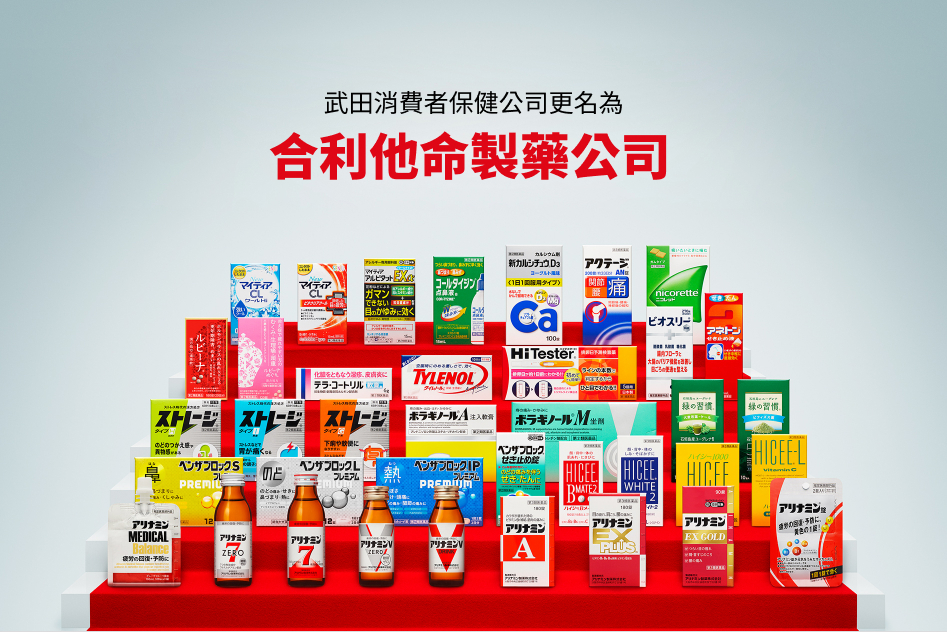
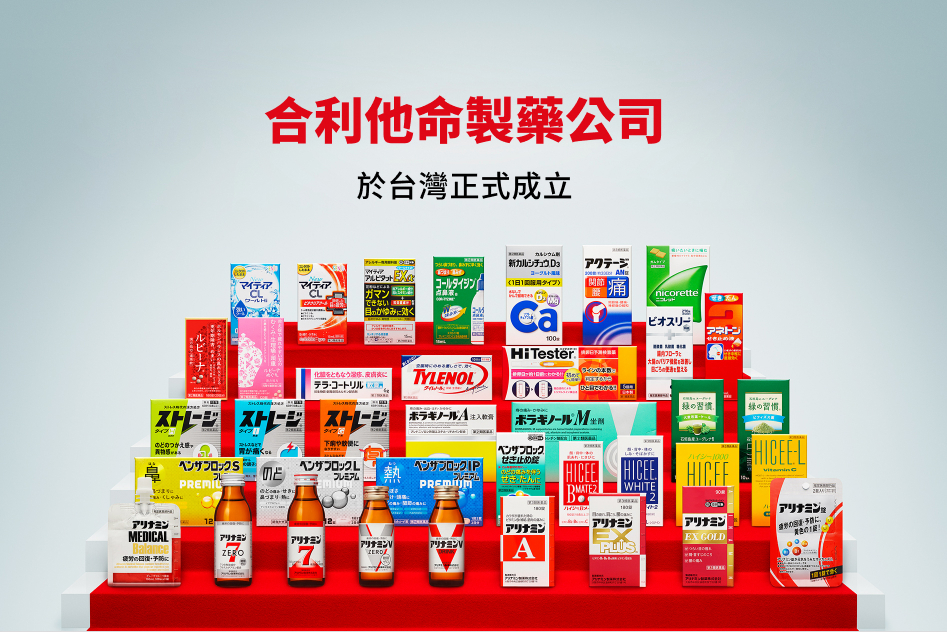
公司簡介文案修改 #2022-03-18

Changed region(s): [[0.2756, 0.1201, 0.7043, 0.3302]]

diff --git a/history.html b/history.html
@@ -171,9 +171,8 @@
             <div data-aos="fade-up" data-aos-duration="1000" data-aos-once="true" data-aos-delay="150">
                 <h1>邁向<span>全新的開始</span></h1>
                 <img src="images/history/pic_main.jpg" alt="合利他命藥品股份有限公司">
-                <p>2021年4月1日起，武田消費者保健公司更名為「合利他命製藥公司」。 </p>
-                <p>我們將這次的更名視為一種面對未來的轉換，並將持續挑戰新事物。當然，我們為各位顧客提供健康富足生活的想法從未改變。我們的製程、工廠以及技術人員等生產體制都將一如往常地為各位提供各項產品。</p>
-                <p>敬請各位舊雨新知不吝繼續支持與鼓勵。</p>
+                <p>隨著全球武田藥品工業(Takeda)將消費保健品事業部的產品權利轉移至合利他命藥品(Alinamin pharmaceutical company Ltd.) 2022年4月，合利他命藥品股份有限公司台灣分公司也正式成立，持續提供消費者包含合利他命、必胃康、愛喜以及保能痔等消費保健產品。</p>
+                <p>我們所有產品的製程將與過去相同，產品的效果與成分也完全相同，感謝您過去對武田藥品工業消費保健品的支持，未來也請您繼續支持合利他命藥品。</p>
             </div>
 
             <div data-aos-duration="1000" data-aos-once="true" data-aos-delay="150">
@@ -199,8 +198,8 @@
             </div>
             
             <div data-aos="fade-up" data-aos-duration="1000" data-aos-once="true" data-aos-delay="150">
-                <div class="titleBar">特別影片</div>
-                <p>這部影片旨在介紹，新公司啟動時全體員工工作坊的紀錄影像，以及我們凝聚匯集在新商標中的想法。</p>
+                <div class="titleBar">認識合利他命製藥</div>
+                <p>讓我們帶您認識合利他命藥品所代表的精神與想法。</p>
                 <div class="box_film">
                     <div class='main_film'>
                         <!-- <iframe src="https://www.youtube.com/embed/oL_xrUzdFmQ?&autoplay=1" title="YouTube video player" frameborder="0" allow="accelerometer; autoplay; clipboard-write; encrypted-media; gyroscope; picture-in-picture" allowfullscreen></iframe> -->
